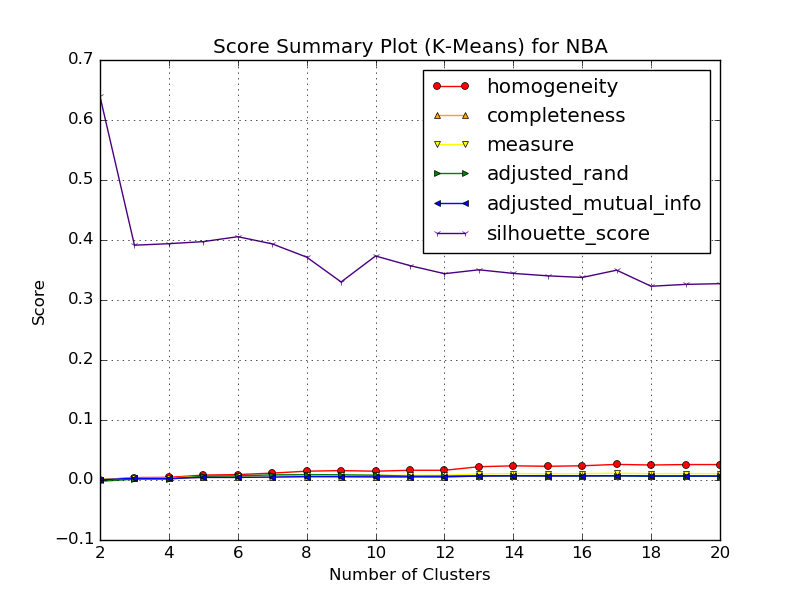
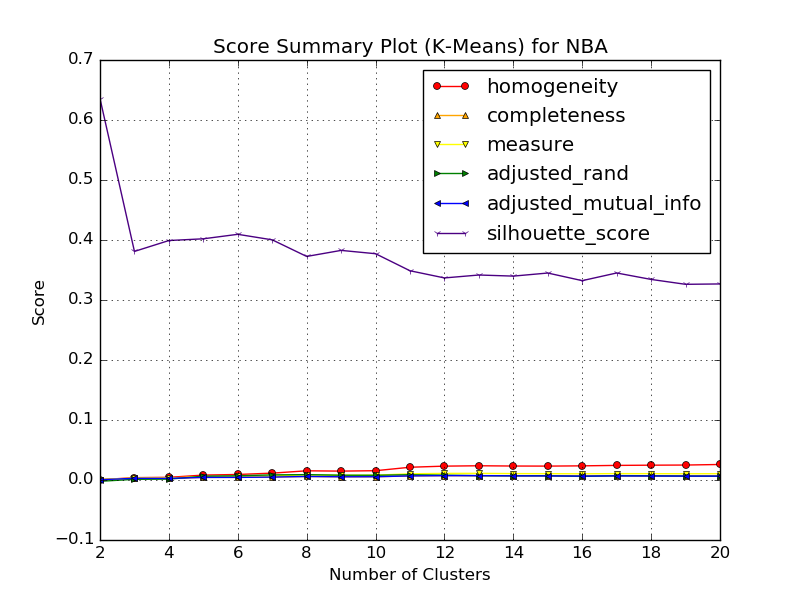
running

diff --git a/Assignment3/part1.py b/Assignment3/part1.py
@@ -76,7 +76,7 @@ class part1():
             
             s_scores = []
             for i in range(20):
-                s_scores.append(silhouette_score(X_train_scl, km.labels_, metric='euclidean', sample_size=50000))
+                s_scores.append(silhouette_score(X_train_scl, km.labels_, metric='euclidean', sample_size=10000))
             
             km_silhouette_score.append(np.mean(s_scores))
             
